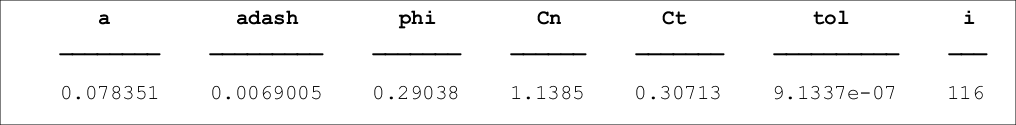
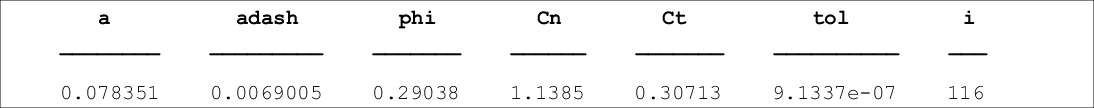
Attempt s1 single valid move to status function

diff --git a/main.m b/main.m
@@ -32,8 +32,10 @@ init_theta=0.0733;
 init_R=19.5;
 
 [a, adash, phi, Cn, Ct, tol, i]=WTInducedCalcs(init_a,init_adash,init_V0,w,init_R,init_theta,1,3);
-s1singletable=table(a, adash, phi, Cn, Ct, tol, i);
+%s1singletable=table(a, adash, phi, Cn, Ct, tol, i);
+statustablematrix([a, adash, phi, Cn, Ct, tol, i],{'a', 'adash', 'phi', 'Cn', 'Ct', 'tol', 'i'},'status/s1_singlevalidation.png','figure');
 
+%{
 %Create figure for display.
 f = figure('visible','off');
 axis off
@@ -51,6 +53,7 @@ FixedWidth = get(0,'FixedWidthFontName');
 annotation(gcf,'Textbox','String',TString,'Interpreter','Tex',...
     'FontName',FixedWidth,'Units','Normalized','Position',[0 0 1 1]);
 saveas(f,'status/s1_singlevalidation.png');
+%}
 
 %% Section 2 Testing
 % Test the multi S1 validation case.

diff --git a/statustablematrix.m b/statustablematrix.m
@@ -17,7 +17,7 @@ end
 
 axis off
 hold on
-set(f, 'Position', [500 500 (size(data,2)*100) (25+(size(data,1)*20))])
+set(f, 'Position', [500 500 (size(data,2)*100) (52+(size(data,1)*17))])
 % Get the table in string form.
 TString = evalc('disp(tableform)');
 % Use TeX Markup for bold formatting and underscores.
